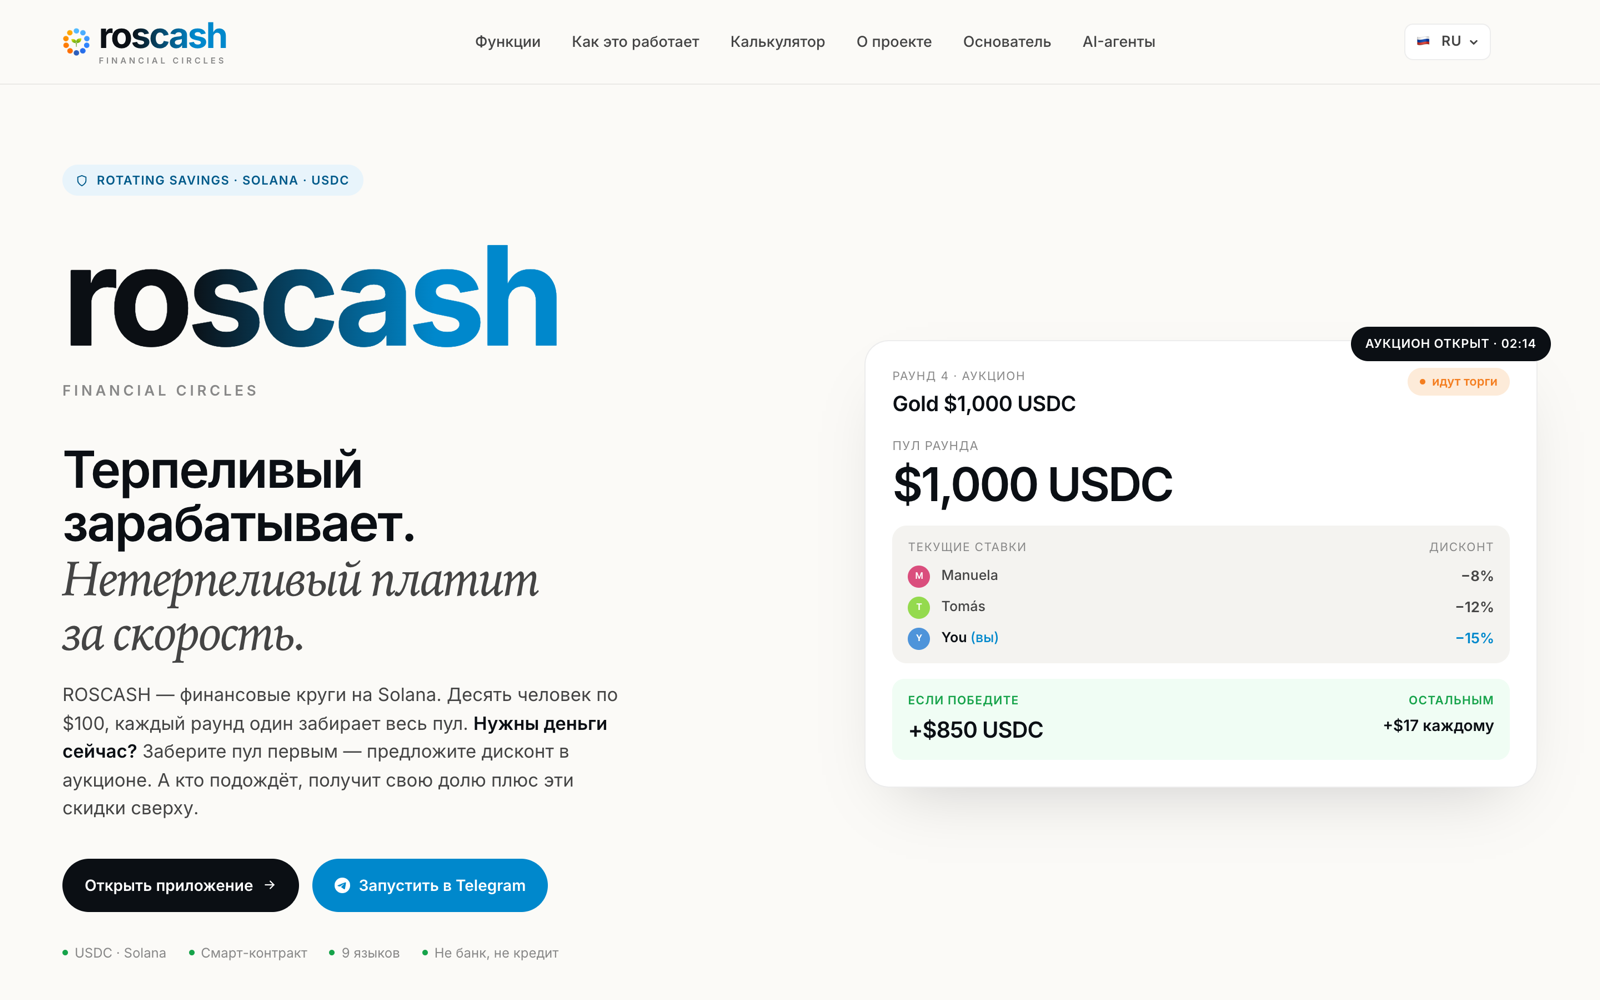
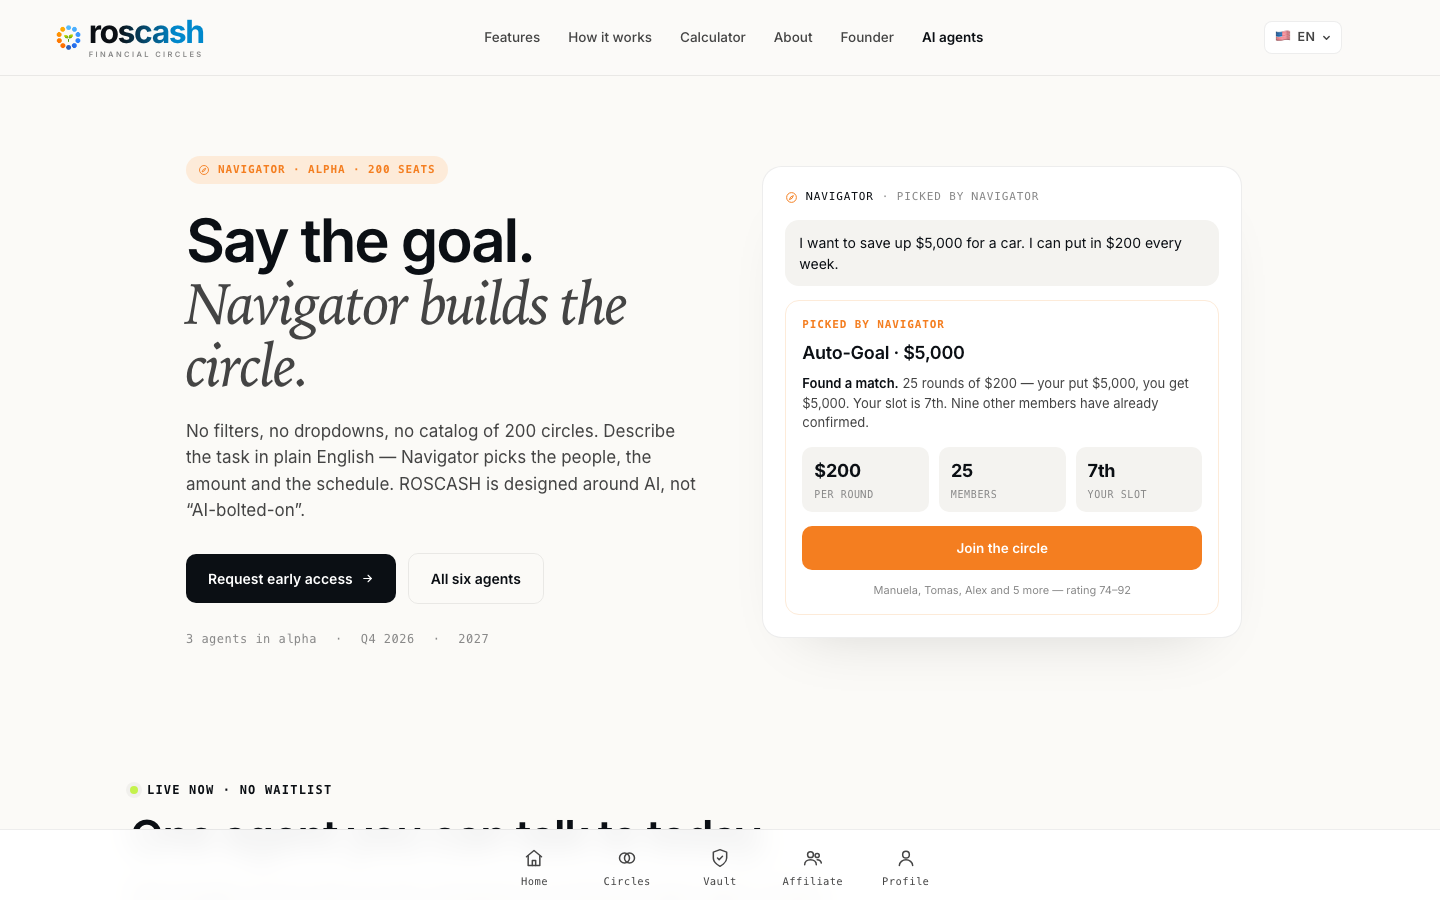
Add pricing for SEO/Digital/GEO services; update screenshots to English
- pricing.ts: Added SEO ($299), Digital Marketing ($499) and GEO ($299)
  tiers with features, taglines and highlighted GEO card
- roscash-desktop.png: Retaken in English (1440x900, EN flag selected)
- swapkids-mobile.png: Retaken in English (375x812)

diff --git a/lib/pricing.ts b/lib/pricing.ts
@@ -212,6 +212,55 @@ export const PRICING_TIERS: PricingTier[] = [
     cta: "Discuss FinTech",
   },
   {
+    name: "SEO Optimization",
+    priceUsd: 299,
+    unit: "from",
+    taglineEn: "Organic traffic growth from Google",
+    taglineRu: "Рост органического трафика из Google",
+    features: [
+      "Technical SEO audit",
+      "On-page optimization",
+      "Link building strategy",
+      "Core Web Vitals optimization",
+      "Monthly analytics report",
+      "2–4 weeks to first results",
+    ],
+    cta: "Start SEO",
+  },
+  {
+    name: "Digital Marketing",
+    priceUsd: 499,
+    unit: "from",
+    taglineEn: "Content, social media and paid ads",
+    taglineRu: "Контент, соцсети и платная реклама",
+    features: [
+      "Social media strategy and content",
+      "Email marketing campaigns",
+      "Paid ads (Google / Meta)",
+      "Funnel and conversion optimization",
+      "Brand copywriting and visuals",
+      "Monthly performance report",
+    ],
+    cta: "Start marketing",
+  },
+  {
+    name: "GEO — AI Search",
+    priceUsd: 299,
+    unit: "from",
+    taglineEn: "Get found in ChatGPT, Perplexity, Claude & Gemini",
+    taglineRu: "Появляйтесь в ChatGPT, Perplexity, Claude и Gemini",
+    features: [
+      "AI search visibility audit",
+      "Brand entity optimization",
+      "Content strategy for AI discovery",
+      "Structured data and knowledge graph",
+      "Monitoring across AI platforms",
+      "Monthly GEO report",
+    ],
+    highlighted: true,
+    cta: "Start GEO",
+  },
+  {
     name: "Enterprise AI",
     priceUsd: null,
     unit: "",